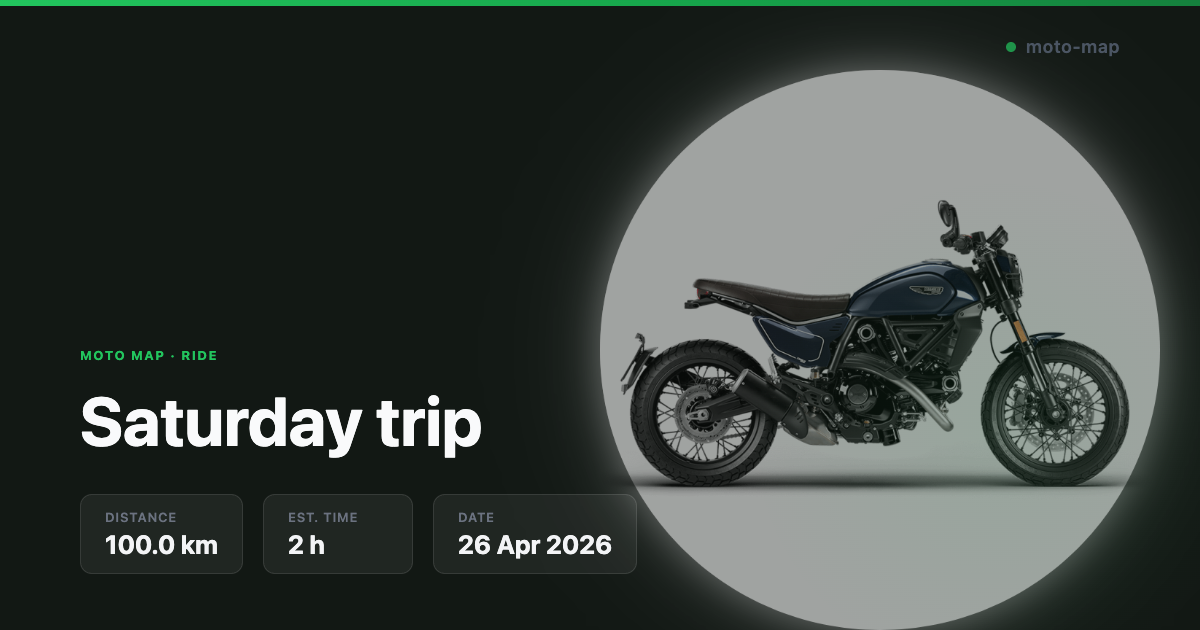
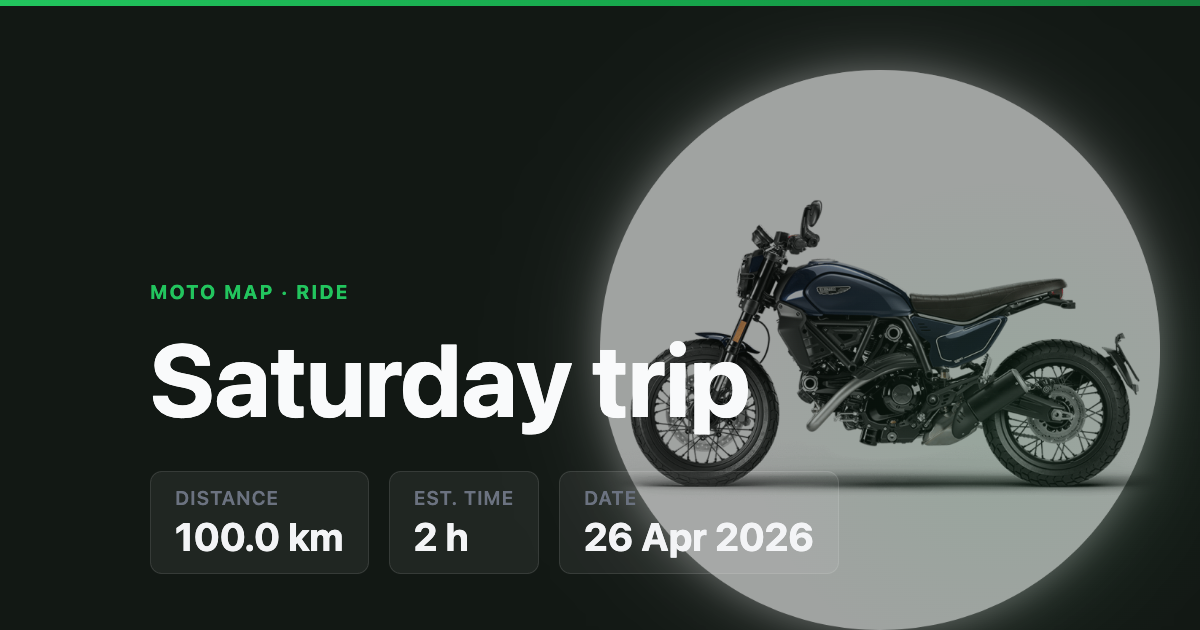
[UPDATE] refine OG snapshot handling by removing meta-refresh redirects and adjusting layout parameters for improved clarity

diff --git a/scripts/generate-og-images.js b/scripts/generate-og-images.js
@@ -89,14 +89,13 @@ function formatDate(dateStr) {
  *  - Motorcycle SVG icon (top-right)
  *  - Large trip title
  *  - Three stat chips: distance · est. time · date
- *  - "Moto Map" branding bottom-right
  *
  * Font: -apple-system, BlinkMacSystemFont, 'Segoe UI', Roboto, sans-serif
  * (identical to the app's font-family in style.css)
  */
 function buildHtml({ title, distanceFmt, durationFmt, dateFmt, isSiteDefault, motoPngUri }) {
   const safeTitle    = title.replace(/</g, '&lt;').replace(/>/g, '&gt;');
-  const titleSize    = safeTitle.length > 40 ? '52px' : safeTitle.length > 28 ? '60px' : '68px';
+  const titleSize    = safeTitle.length > 40 ? '78px' : safeTitle.length > 28 ? '90px' : '102px';
 
   const stats = isSiteDefault ? '' : `
     <div class="chips">
@@ -141,7 +140,7 @@ function buildHtml({ title, distanceFmt, durationFmt, dateFmt, isSiteDefault, mo
     flex-direction: column;
     /* Text/content pinned to the bottom */
     justify-content: flex-end;
-    padding: 56px 80px;
+    padding: 56px 150px;
     overflow: hidden;
   }
   /* top accent bar — sits above moto image (z-index via stacking context) */
@@ -183,7 +182,7 @@ function buildHtml({ title, distanceFmt, durationFmt, dateFmt, isSiteDefault, mo
     z-index: 3;
   }
   .tag {
-    font-size: 13px;
+    font-size: 19.5px;
     font-weight: 700;
     letter-spacing: 0.12em;
     text-transform: uppercase;
@@ -196,14 +195,14 @@ function buildHtml({ title, distanceFmt, durationFmt, dateFmt, isSiteDefault, mo
     line-height: 1.1;
     color: #f9fafb;
     margin-bottom: 36px;
-    max-width: 800px;
+    max-width: 900px;
     word-break: break-word;
   }
   .subtitle {
-    font-size: 26px;
+    font-size: 39px;
     color: #9ca3af;
     margin-bottom: 36px;
-    max-width: 800px;
+    max-width: 900px;
     line-height: 1.4;
   }
   .chips {
@@ -222,35 +221,16 @@ function buildHtml({ title, distanceFmt, durationFmt, dateFmt, isSiteDefault, mo
     min-width: 150px;
   }
   .chip-label {
-    font-size: 13px;
+    font-size: 19.5px;
     font-weight: 600;
     letter-spacing: 0.06em;
     text-transform: uppercase;
     color: #6b7280;
   }
   .chip-value {
-    font-size: 26px;
+    font-size: 39px;
     font-weight: 700;
     color: #f3f4f6;
-  }
-  .branding {
-    position: absolute;
-    top: 36px;
-    right: 80px;
-    display: flex;
-    align-items: center;
-    gap: 10px;
-    color: #4b5563;
-    font-size: 18px;
-    font-weight: 600;
-    letter-spacing: 0.04em;
-    z-index: 3;
-  }
-  .branding-dot {
-    width: 10px; height: 10px;
-    border-radius: 50%;
-    background: #22c55e;
-    opacity: 0.7;
   }
 </style>
 </head>
@@ -260,12 +240,6 @@ function buildHtml({ title, distanceFmt, durationFmt, dateFmt, isSiteDefault, mo
 
   <!-- Layer 2: moto PNG — behind all content -->
   <img class="moto-icon" src="${motoPngUri}" alt="" />
-
-  <!-- Layer 3: branding top-right -->
-  <div class="branding">
-    <div class="branding-dot"></div>
-    moto-map
-  </div>
 
   <!-- Layer 3: main text content — pinned to bottom -->
   <div class="content">
@@ -291,9 +265,13 @@ function buildHtml({ title, distanceFmt, durationFmt, dateFmt, isSiteDefault, mo
  *     this file and render the rich preview card with the correct image, title
  *     and description.
  *
- *  2. **Real users** — the page immediately redirects them (via both
- *     <meta http-equiv="refresh"> and a JS window.location replacement) to the
- *     real app at  /?trip=<tripId>  so they land on the live interactive map.
+ *  2. **Real users** — the page immediately redirects them via a JS
+ *     window.location.replace() to the real app at  /?trip=<tripId>  so they
+ *     land on the live interactive map.  NOTE: <meta http-equiv="refresh"> is
+ *     intentionally NOT used — Telegram's crawler follows instant (delay=0)
+ *     meta-refresh redirects and would land on the SPA root instead of reading
+ *     the OG tags baked into this snapshot.  The JS redirect is sufficient for
+ *     all real browsers; non-JS users see the fallback link in <body>.
  *
  * The `og:image` URL must be **absolute** — relative paths are not accepted by
  * most crawlers.  Callers should pass the full origin
@@ -325,9 +303,6 @@ function buildTripSnapshotHtml({ tripId, title, description, baseUrl }) {
   <meta charset="UTF-8" />
   <meta name="viewport" content="width=device-width, initial-scale=1.0" />
   <title>${safeTitle} — Moto Map</title>
-
-  <!-- Instant redirect for real users (JS + meta fallback) -->
-  <meta http-equiv="refresh" content="0; url=${appUrl}" />
 
   <!-- Open Graph -->
   <meta property="og:type"         content="website" />

diff --git a/trip/trip_06-04-26/index.html b/trip/trip_06-04-26/index.html
@@ -5,9 +5,6 @@
   <meta name="viewport" content="width=device-width, initial-scale=1.0" />
   <title>Investigate Campsite Bogata Suma and Mrežnica  — Moto Map</title>
 
-  <!-- Instant redirect for real users (JS + meta fallback) -->
-  <meta http-equiv="refresh" content="0; url=https://sliepchenko.github.io/moto-map/?trip=trip_06-04-26" />
-
   <!-- Open Graph -->
   <meta property="og:type"         content="website" />
   <meta property="og:site_name"    content="Moto Map" />

diff --git a/trip/trip_29-08-26/index.html b/trip/trip_29-08-26/index.html
@@ -5,9 +5,6 @@
   <meta name="viewport" content="width=device-width, initial-scale=1.0" />
   <title>Ride to Biker Part hosted my Castle Riders — Moto Map</title>
 
-  <!-- Instant redirect for real users (JS + meta fallback) -->
-  <meta http-equiv="refresh" content="0; url=https://sliepchenko.github.io/moto-map/?trip=trip_29-08-26" />
-
   <!-- Open Graph -->
   <meta property="og:type"         content="website" />
   <meta property="og:site_name"    content="Moto Map" />

diff --git a/trip/trip_04-07-26/index.html b/trip/trip_04-07-26/index.html
@@ -5,9 +5,6 @@
   <meta name="viewport" content="width=device-width, initial-scale=1.0" />
   <title>To Triglav National Park with tent — Moto Map</title>
 
-  <!-- Instant redirect for real users (JS + meta fallback) -->
-  <meta http-equiv="refresh" content="0; url=https://sliepchenko.github.io/moto-map/?trip=trip_04-07-26" />
-
   <!-- Open Graph -->
   <meta property="og:type"         content="website" />
   <meta property="og:site_name"    content="Moto Map" />

diff --git a/trip/trip_04-04-26/index.html b/trip/trip_04-04-26/index.html
@@ -5,9 +5,6 @@
   <meta name="viewport" content="width=device-width, initial-scale=1.0" />
   <title>Looking for a new places — Moto Map</title>
 
-  <!-- Instant redirect for real users (JS + meta fallback) -->
-  <meta http-equiv="refresh" content="0; url=https://sliepchenko.github.io/moto-map/?trip=trip_04-04-26" />
-
   <!-- Open Graph -->
   <meta property="og:type"         content="website" />
   <meta property="og:site_name"    content="Moto Map" />

diff --git a/trip/trip_11-04-26/index.html b/trip/trip_11-04-26/index.html
@@ -5,9 +5,6 @@
   <meta name="viewport" content="width=device-width, initial-scale=1.0" />
   <title>First ride in group of 4 — Moto Map</title>
 
-  <!-- Instant redirect for real users (JS + meta fallback) -->
-  <meta http-equiv="refresh" content="0; url=https://sliepchenko.github.io/moto-map/?trip=trip_11-04-26" />
-
   <!-- Open Graph -->
   <meta property="og:type"         content="website" />
   <meta property="og:site_name"    content="Moto Map" />

diff --git a/trip/trip_05-07-26/index.html b/trip/trip_05-07-26/index.html
@@ -5,9 +5,6 @@
   <meta name="viewport" content="width=device-width, initial-scale=1.0" />
   <title>From Camp Bohinj back — Moto Map</title>
 
-  <!-- Instant redirect for real users (JS + meta fallback) -->
-  <meta http-equiv="refresh" content="0; url=https://sliepchenko.github.io/moto-map/?trip=trip_05-07-26" />
-
   <!-- Open Graph -->
   <meta property="og:type"         content="website" />
   <meta property="og:site_name"    content="Moto Map" />

diff --git a/trip/trip_18-05-26/index.html b/trip/trip_18-05-26/index.html
@@ -5,9 +5,6 @@
   <meta name="viewport" content="width=device-width, initial-scale=1.0" />
   <title>Frienly trip in squad — Moto Map</title>
 
-  <!-- Instant redirect for real users (JS + meta fallback) -->
-  <meta http-equiv="refresh" content="0; url=https://sliepchenko.github.io/moto-map/?trip=trip_18-05-26" />
-
   <!-- Open Graph -->
   <meta property="og:type"         content="website" />
   <meta property="og:site_name"    content="Moto Map" />

diff --git a/trip/trip_15-03-26/index.html b/trip/trip_15-03-26/index.html
@@ -5,9 +5,6 @@
   <meta name="viewport" content="width=device-width, initial-scale=1.0" />
   <title>Ride to Čiče lake — Moto Map</title>
 
-  <!-- Instant redirect for real users (JS + meta fallback) -->
-  <meta http-equiv="refresh" content="0; url=https://sliepchenko.github.io/moto-map/?trip=trip_15-03-26" />
-
   <!-- Open Graph -->
   <meta property="og:type"         content="website" />
   <meta property="og:site_name"    content="Moto Map" />

diff --git a/trip/trip_16-08-26/index.html b/trip/trip_16-08-26/index.html
@@ -5,9 +5,6 @@
   <meta name="viewport" content="width=device-width, initial-scale=1.0" />
   <title>Ride to Mrežnica — Moto Map</title>
 
-  <!-- Instant redirect for real users (JS + meta fallback) -->
-  <meta http-equiv="refresh" content="0; url=https://sliepchenko.github.io/moto-map/?trip=trip_16-08-26" />
-
   <!-- Open Graph -->
   <meta property="og:type"         content="website" />
   <meta property="og:site_name"    content="Moto Map" />

diff --git a/trip/trip_21-03-26/index.html b/trip/trip_21-03-26/index.html
@@ -5,9 +5,6 @@
   <meta name="viewport" content="width=device-width, initial-scale=1.0" />
   <title>Ride to Varazdin — Moto Map</title>
 
-  <!-- Instant redirect for real users (JS + meta fallback) -->
-  <meta http-equiv="refresh" content="0; url=https://sliepchenko.github.io/moto-map/?trip=trip_21-03-26" />
-
   <!-- Open Graph -->
   <meta property="og:type"         content="website" />
   <meta property="og:site_name"    content="Moto Map" />

diff --git a/trip/trip_22-02-26/index.html b/trip/trip_22-02-26/index.html
@@ -5,9 +5,6 @@
   <meta name="viewport" content="width=device-width, initial-scale=1.0" />
   <title>Ride to Zagorje — Moto Map</title>
 
-  <!-- Instant redirect for real users (JS + meta fallback) -->
-  <meta http-equiv="refresh" content="0; url=https://sliepchenko.github.io/moto-map/?trip=trip_22-02-26" />
-
   <!-- Open Graph -->
   <meta property="og:type"         content="website" />
   <meta property="og:site_name"    content="Moto Map" />
